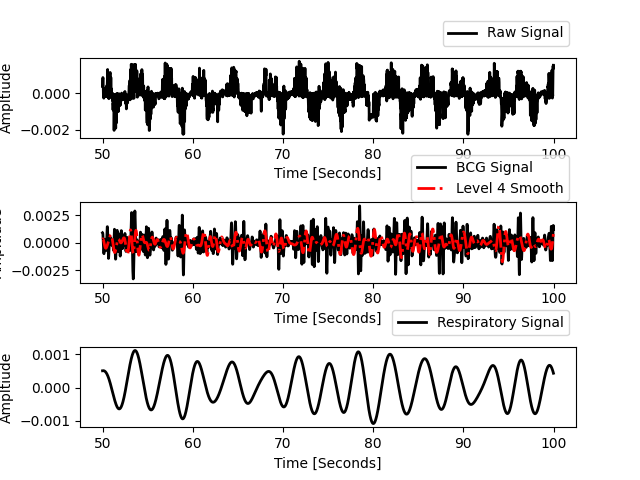
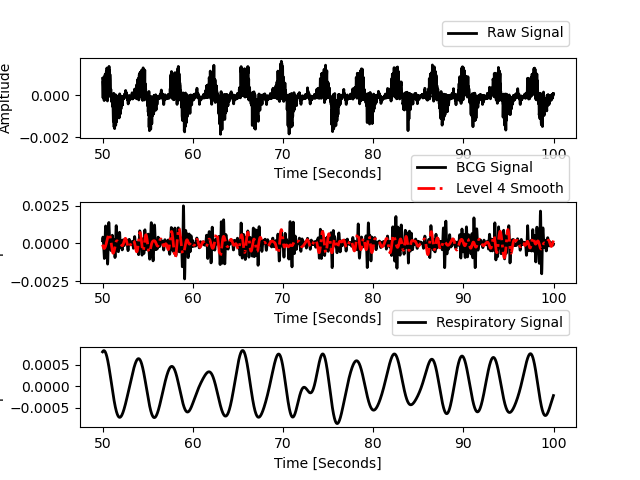
Add heart rate and respiratory rate comparison metrics output
- Introduced a new output file containing heart rate comparison metrics including MAE, RMSE, MAPE, and correlation coefficient (r value).
- Added detailed heart rate information: minimum, maximum, and average pulse.
- Included respiratory rate information: minimum, maximum, and average breathing rates.
- Provided reference and estimated heart rate statistics for analysis.

diff --git a/src/main.py b/src/main.py
@@ -8,6 +8,7 @@ import matplotlib.pyplot as plt
 from datetime import datetime
 from scipy.stats import pearsonr
 from sklearn.metrics import mean_absolute_error, mean_squared_error
+from scipy import signal
 
 from band_pass_filtering import band_pass_filtering
 from compute_vitals import vitals
@@ -18,13 +19,12 @@ from modwt_mra_matlab_fft import modwtmra
 from remove_nonLinear_trend import remove_nonLinear_trend
 from data_subplot import data_subplot
 from detect_peaks import detect_peaks
-
 # ======================================================================================================================
 
 print('\nstart processing ...')
 
-file = 'data/BCG/fixed_bcg.csv'
-reference_rr_file = 'data/RR/02_20231103_RR.csv'
+file = 'data/BCG/fixed_bcg2.csv'
+reference_rr_file = 'data/RR/03_20231105_RR.csv'
 
 if file.endswith(".csv"):
     fileName = os.path.join(file)
@@ -34,9 +34,9 @@ if file.endswith(".csv"):
         print("\U0001F4C5 BCG Start:", pd.to_datetime(utc_time.min(), unit='ms'))
         print("\U0001F4C5 BCG End  :", pd.to_datetime(utc_time.max(), unit='ms'))
         data_stream = rawData["BCG"].values
-        fs = 50
+        fs_original = int(rawData["fs"].iloc[0])
         print("✅ Loaded samples:", len(data_stream))
-        print("✅ Sampling frequency (Hz):", fs)
+        print("✅ Sampling frequency (Hz):", 50 )
 
         # Load ECG-declived reference HR
         rr_data = pd.read_csv(reference_rr_file)
@@ -58,25 +58,58 @@ if file.endswith(".csv"):
         synced_utc = utc_time[mask_bcg]
         synced_rr = rr_data.loc[mask_rr]
         reference_hr = synced_rr['Heart Rate'].replace(0, np.nan).dropna().to_numpy()
+        
+        # Resample BCG to 50Hz
+        # n_samples_50hz = int((end_time - start_time) / 1000 * fs)
+        # synced_bcg_resampled = resample(synced_bcg, n_samples_50hz)
+        # N = len(synced_bcg_resampled)
+        
 
-        n_samples_50hz = int((end_time - start_time) / 1000 * fs)
-        synced_bcg_resampled = resample(synced_bcg, n_samples_50hz)
-        N = len(synced_bcg_resampled)
+        # Step 1: Compute the true time-based duration of the synced BCG signal
+        start_time = pd.to_datetime(synced_utc[0], unit='ms')
+        end_time = pd.to_datetime(synced_utc[-1], unit='ms')
+        duration_sec = (end_time - start_time).total_seconds()
 
-        duration_sec = (synced_utc[-1] - synced_utc[0]) / 1000.0  # in seconds
-        resampled_time = np.linspace(start_time, end_time, n_samples_50hz)
+        # Step 2: Calculate resampled size based on time, not sample count
+        fs_target = 50
+        num_samples = int(duration_sec * fs_target)
 
-        print("\U0001F552 Sync window (ms):", start_time, "→", end_time)
-        print("\U0001F4CA Synced BCG samples:", len(synced_bcg))
-        print("\U0001F4CA Synced RR samples:", len(reference_hr))
+        # Step 3: Resample BCG signal
+        resampled_bcg = resample(synced_bcg, num_samples)
 
-        # Denoise + Remove Movement Artifacts
+        # Step 4: Generate accurate time index for 50Hz spacing
+        resampled_index = pd.date_range(start=start_time, periods=num_samples, freq='20ms')
+
+        # Step 5: Create DataFrame
+        resampled_df = pd.DataFrame({
+            'Timestamp': resampled_index,
+            'BCG': resampled_bcg
+        })
+        resampled_df.set_index('Timestamp', inplace=True)
+
+        # Step 6: Time axis in milliseconds for later processing
+        resampled_time = np.arange(0, len(resampled_df) * 20, 20)
+
+        # Debug print
+        print("⏱ Duration (seconds):", duration_sec)
+        print("🧠 Resampled BCG samples:", len(resampled_df))
+        print("\U0001F552 Sync window (ms):", resampled_index[0], "→", resampled_index[-1])
+
+        # Denoise and remove movement artifacts
+        # Denoise and remove movement artifacts
         start_point, end_point, window_shift = 0, 500, 500
-        clean_bcg, clean_time = detect_patterns(start_point, end_point, window_shift, synced_bcg_resampled, resampled_time, plot=1)
+        clean_bcg, clean_time = detect_patterns(
+            start_point,
+            end_point,
+            window_shift,
+            resampled_df['BCG'].values,
+            resampled_time,
+            plot=1
+        )
 
         # Filter for HR and respiratory components
-        movement = band_pass_filtering(clean_bcg, fs, "bcg")
-        breathing = band_pass_filtering(clean_bcg, fs, "breath")
+        movement = band_pass_filtering(clean_bcg, fs_target, "bcg")
+        breathing = band_pass_filtering(clean_bcg, fs_target, "breath")
         breathing = remove_nonLinear_trend(breathing, 3)
         breathing = savgol_filter(breathing, 11, 3)
 
@@ -97,15 +130,24 @@ if file.endswith(".csv"):
 
 
         # Peak detection from filtered BCG
-        peaks = detect_peaks(wavelet_cycle, mpd=fs//2)
+        peaks = detect_peaks(wavelet_cycle)
         peak_times = clean_time[peaks] / 1000.0  # ms to seconds
         rr_intervals_sec = np.diff(peak_times)
         estimated_hr = 60.0 / rr_intervals_sec
 
-        # Align arrays
-        min_len = min(len(estimated_hr), len(reference_hr))
+
+        # Compute timestamps for estimated HR (at midpoints between peaks)
+        estimated_hr_times = peak_times[1:]  # aligns each HR value with the second peak
+
+        # Use raw RR values directly (only for plotting and comparison, not interpolation)
+        reference_hr = synced_rr['Heart Rate'].replace(0, np.nan).dropna().values
+
+        # Truncate estimated HR to match length
+        min_len = min(len(reference_hr), len(estimated_hr))
         estimated_hr = estimated_hr[:min_len]
         reference_hr = reference_hr[:min_len]
+        estimated_hr_times = estimated_hr_times[:min_len]
+
 
         # Metrics
         mae = mean_absolute_error(reference_hr, estimated_hr)
@@ -116,6 +158,9 @@ if file.endswith(".csv"):
         print('MAE:', mae)
         print('RMSE:', rmse)
         print('MAPE:', mape)
+
+
+
 
         # Bland-Altman
         mean_hr = (estimated_hr + reference_hr) / 2
@@ -142,6 +187,7 @@ if file.endswith(".csv"):
 
         # Vitals
         t1, t2, window_length, window_shift = 0, 500, 500, 500
+        hop_size = math.floor((window_length - 1) / 2)
         limit = int(math.floor(breathing.size / window_shift))
         hr_beats = vitals(t1, t2, window_shift, limit, wavelet_cycle, clean_time, mpd=1, plot=0)
         print('\nHeart Rate Information')
@@ -161,7 +207,50 @@ if file.endswith(".csv"):
         t1, t2 = 2500, 5000
         data_subplot(clean_bcg, movement, breathing, wavelet_cycle, t1, t2)
         
-        num_windows = (N - start_point) // window_shift
-        print(f"Signal length: {N}, Expected number of windows: {num_windows}")
+        plt.figure()
+        plt.plot(reference_hr, label="Reference HR")
+        plt.plot(estimated_hr, label="Estimated HR")
+        plt.legend()
+        plt.title("Comparison of Heart Rates")
+        plt.xlabel("Index")
+        plt.ylabel("Heart Rate (BPM)")
+        plt.savefig('results/hr_comparison.png')
+        print("Reference HR stats:", np.min(reference_hr), np.max(reference_hr), np.mean(reference_hr))
+        print("Estimated HR stats:", np.min(estimated_hr), np.max(estimated_hr), np.mean(estimated_hr))
+        
+        # num_windows = (N - start_point) // window_shift
+        # print(f"Signal length: {N}, Expected number of windows: {num_windows}")
+
+
+
+                # Save
+
+        # Save summary results to file
+        summary_text = f"""Heart Rate Comparison Metrics
+        MAE: {mae}
+        RMSE: {rmse}
+        MAPE: {mape}
+        r value is {r}
+
+        Heart Rate Information
+        Minimum pulse :  {np.around(np.min(hr_beats))}
+        Maximum pulse :  {np.around(np.max(hr_beats))}
+        Average pulse :  {np.around(np.mean(hr_beats))}
+
+        Respiratory Rate Information
+        Minimum breathing :  {np.around(np.min(breath_beats))}
+        Maximum breathing :  {np.around(np.max(breath_beats))}
+        Average breathing :  {np.around(np.mean(breath_beats))}
+
+        Reference HR stats: {np.min(reference_hr)} {np.max(reference_hr)} {np.mean(reference_hr)}
+        Estimated HR stats: {np.min(estimated_hr)} {np.max(estimated_hr)} {np.mean(estimated_hr)}
+        """
+
+        # Ensure the directory exists
+        os.makedirs('results', exist_ok=True)
+
+        # Write to file
+        with open('results/Output.py', 'w') as f:
+            f.write(summary_text)
 
     print('\nEnd processing ...')

diff --git a/README.md b/README.md
@@ -1,2 +1,70 @@
+```markdown
 # BCG-HeartRateDetection
-Heart rate detection from bed-embedded Ballistocardiogram sensors
+
+A Python-based pipeline for heart rate detection from bed-embedded Ballistocardiogram (BCG) sensors. This system processes raw BCG signals, filters out noise and movement artifacts, detects peaks corresponding to heartbeats, and estimates heart rate over time. The results are compared against ECG-derived reference heart rates for evaluation.
+
+## 📁 Project Structure
+```
+
+data/
+├── BCG/
+│ └── fixed_bcg2.csv # Raw BCG data file
+├── RR/
+│ └── 03_20231105_RR.csv # Reference heart rate (ECG-based RR intervals)
+
+results/
+├── wavelet_cycle.png # Visualization of wavelet-smoothed BCG signal
+├── hr_comparison.png # Reference vs Estimated HR
+├── bland_altman.png # Bland-Altman plot
+├── pearson_correlation.png # Correlation between estimated and reference HR
+
+````
+
+## ⚙ Pipeline Overview
+
+1. **Load BCG and Reference RR Data**
+2. **Synchronize BCG and RR Timeframes**
+3. **Resample BCG to 50 Hz**
+4. **Denoise and Remove Artifacts**
+   - Band-pass filtering
+   - Non-linear trend removal
+   - Smoothing with Savitzky-Golay filter
+5. **Wavelet Transform**
+   - Multi-resolution analysis (MODWT)
+6. **Peak Detection**
+   - Detect peaks in smoothed BCG signal to derive heartbeats
+7. **Heart Rate Estimation**
+   - Calculate RR intervals and convert to HR in BPM
+8. **Metrics Evaluation**
+   - MAE, RMSE, MAPE, Pearson correlation
+   - Comparison against reference ECG-derived HR
+9. **Visualization**
+
+## 📈 Example Output
+
+```bash
+Heart Rate Comparison Metrics
+MAE: 16.08
+RMSE: 22.65
+MAPE: 19.14%
+r value: ~0.00
+
+Heart Rate Information
+Min: 53 bpm
+Max: 91 bpm
+Mean: 72 bpm
+````
+
+## 📦 Dependencies
+
+Make sure to install the following Python packages:
+
+```bash
+pip install numpy pandas scipy matplotlib scikit-learn
+```
+
+## 📌 Notes
+
+- Data is resampled to 50 Hz using linear interpolation and `scipy.signal.resample`.
+- Reference HR is used for validation only and is not interpolated.
+- Ensure your CSV files are timestamped in milliseconds and aligned properly.
